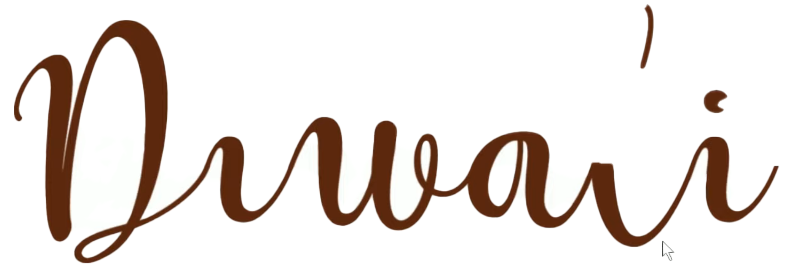
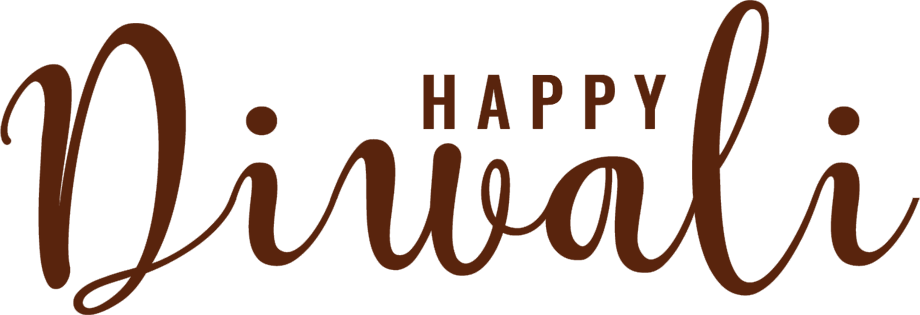
about

Changed region(s): [[0.0, 0.0, 1.0, 1.0], [0.2494, 0.3235, 0.3117, 0.4412], [0.8728, 0.3235, 0.9352, 0.4412]]

diff --git a/index.html b/index.html
@@ -33,11 +33,44 @@
   <!-- header section ends-->
   <!-- home section starts -->
 <div class="home" id="home">
-  <img src="/images/happy_diwali.png" class="home-img" alt="">
+  <img src="/images/happy_diwal.png" class="home-img" alt="">
 </div>
 
   <!-- home section ends-->
 
+
+
+
+
+  <!-- about section starts-->
+
+  <section class="about" id="about">
+
+    <div class="flex">
+      <div class="image">
+        <img src="/images/about-img-1.png" alt="" />
+      </div>
+      <div class="content">
+        <h3>subh diwali</h3>
+        <p>Lorem ipsum dolor sit amet, consectetur adipisicing elit. Quo, vitae. Ea perspiciatis possimus vel, libero labore numquam ad nobis incidunt.</p>
+        <a href="#" class="btn">Leer más</a>
+      </div>
+    </div>
+
+    <div class="flex">
+
+      <div class="content">
+        <h3>Tus deseos</h3>
+        <p>Lorem ipsum dolor sit amet, consectetur adipisicing elit. Quo, vitae. Ea perspiciatis possimus vel, libero labore numquam ad nobis incidunt.</p>
+        <a href="#" class="btn">Leer más</a>
+      </div>
+      <div class="image">
+        <img src="/images/about-img-2.png" alt="" />
+      </div>
+    </div>
+
+  </section>
+  <!-- about section ends-->
   <script src="/js/script.js"></script>
 </body>
 </html>

diff --git a/css/styles.css b/css/styles.css
@@ -55,6 +55,21 @@ section{
   max-width: 1200px;
 }
 
+.btn{
+  margin-top: 1rem;
+  display: inline-block;
+  cursor: pointer;
+  padding: 1rem 3rem;
+  background: var(--gradient);
+  border-radius: 5rem;
+  font-size: 1.8rem;
+  color: var(--white);
+}
+
+.btn:hover{
+  background: var(--gradient-hover);
+}
+
 body{
   height: 300rem;
 }
@@ -98,7 +113,7 @@ color: var(--orange);
 }
 .home{
   min-height: 100vh;
-  background: url('/images/bg_diwal.jpg');
+  background: url('/images/bg_diwali.png');
   background-size: cover;
   background-position: center;
   text-align: center;
@@ -110,9 +125,46 @@ color: var(--orange);
   transition: .2s linear;
 }
 
+.about .flex{
+  display: flex;
+  flex-wrap: wrap;
+  gap: 3rem;
+  align-items: center;
+}
 
+.about .flex:last-child{
+  flex-wrap: wrap-reverse;
+  margin-top: 2rem;
+}
 
+.about .flex:last-child{
+  text-align: right;
+}
 
+.about .flex .image{
+  flex: 1 1 40rem;
+}
+
+.about .flex .image img{
+  width: 100%;
+}
+
+.about .flex .content{
+  flex: 1 1 40rem;
+}
+
+.about .flex .content h3{
+  font-size: 3rem;
+  color: var(--orange);
+  margin-bottom: .5rem;
+}
+
+.about .flex .content p{
+  padding: 1rem 0;
+  font-size: 1.8rem;
+  color: var(--light-color);
+  line-height: 1.8;
+}
 
 
 
